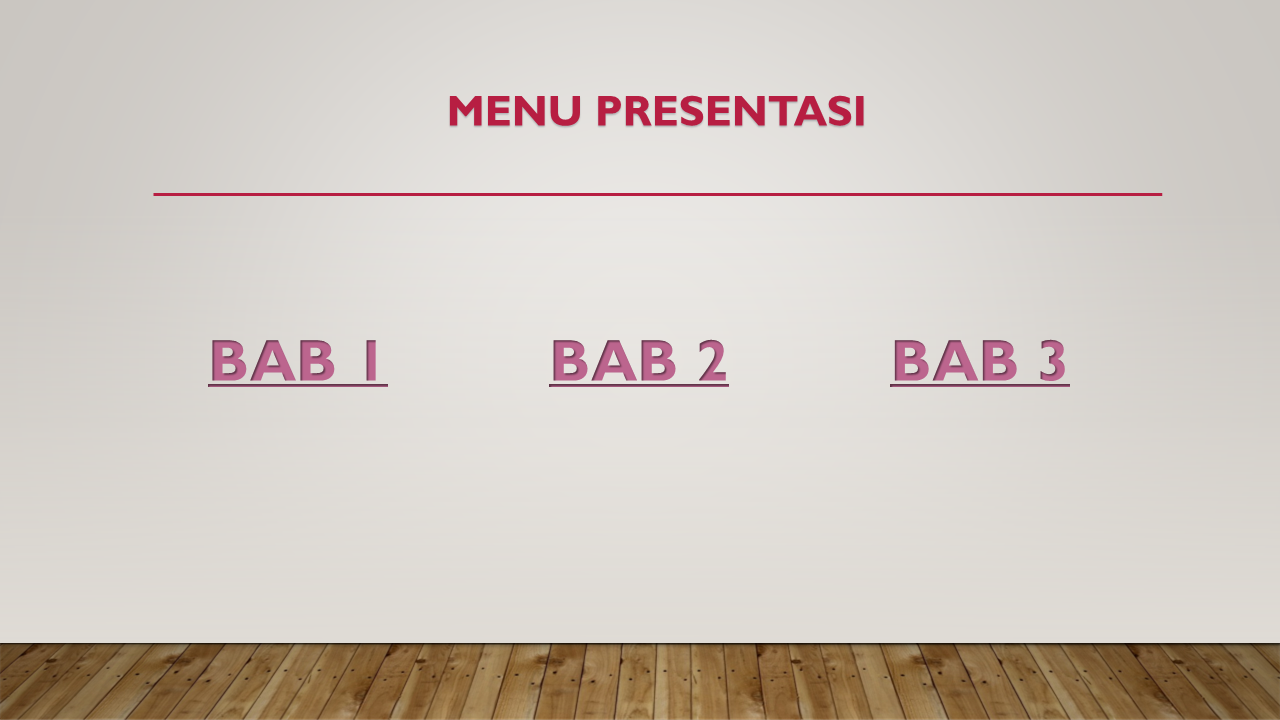
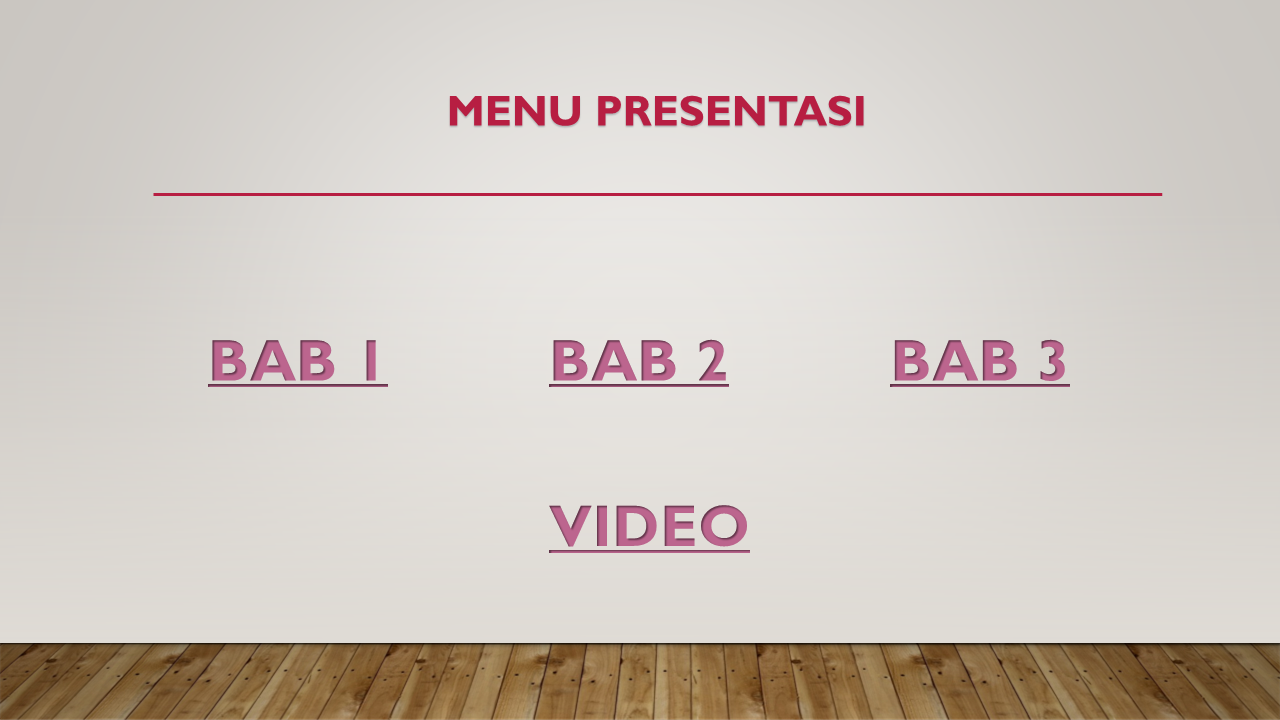
M

Changed region(s): [[0.4062, 0.7028, 0.5938, 0.7944]]

diff --git a/materi-powerpoint.html b/materi-powerpoint.html
@@ -1489,48 +1489,67 @@
                           </li>
                           <li>
                             <strong>Slide 1 — Menu Utama:</strong>
-                            <ul class="dash-list">
-                              <li>Judul: "Menu Presentasi".</li>
-                              <li>Buat 3 teks: "Bab 1", "Bab 2", "Bab 3".</li>
-                              <li>
-                                Blok teks "Bab 1" → Klik kanan →
-                                <strong>Hyperlink</strong> (atau Ctrl+K).
-                              </li>
-                              <li>
-                                Pilih
-                                <strong>Place in This Document</strong> →
-                                pilih <strong>Slide 2 (Bab 1)</strong> → OK.
-                              </li>
-                              <li>
-                                Ulangi untuk "Bab 2" → Slide 3, "Bab 3" →
-                                Slide 4.
-                              </li>
-                            </ul>
+                            <div class="row">
+                              <div class="col-md-6">
+                                <ul class="dash-list">
+                                  <li>Judul: "Menu Presentasi".</li>
+                                  <li>Buat 3 teks: "Bab 1", "Bab 2", "Bab 3".</li>
+                                  <li>
+                                    Blok teks "Bab 1" → Klik kanan →
+                                    <strong>Hyperlink</strong> (atau Ctrl+K).
+                                  </li>
+                                  <li>
+                                    Pilih
+                                    <strong>Place in This Document</strong> →
+                                    pilih <strong>Slide 2 (Bab 1)</strong> → OK.
+                                  </li>
+                                  <li>
+                                    Ulangi untuk "Bab 2" → Slide 3, "Bab 3" →
+                                    Slide 4.
+                                  </li>
+                                </ul>
+                              </div>
+                              <div class="col-md-6">
+                                <div class="my-3">
+                                  <img src="assets/img/presentasi-interaktif/Slide1.PNG" alt=""
+                                    class="img-fluid shadow rounded">
+                                </div>
+                              </div>
+                            </div>
                           </li>
                           <li>
-                            <strong>Tambahkan Action Button "Kembali" di setiap
-                              slide:</strong>
-                            <ul class="dash-list">
-                              <li>Buka Slide 2 (Bab 1).</li>
-                              <li>
-                                Tab <strong>Insert</strong> →
-                                <strong>Shapes</strong> →
-                                <strong>Action Buttons</strong> → pilih
-                                <strong>Action Button: Home</strong> (ikon
-                                rumah).
-                              </li>
-                              <li>Gambar di pojok kanan bawah.</li>
-                              <li>
-                                Di dialog yang muncul: pilih
-                                <strong>Hyperlink to</strong> →
-                                <strong>First Slide</strong> atau
-                                <strong>Slide…</strong> → pilih Slide 1.
-                              </li>
-                              <li>Klik OK.</li>
-                              <li>
-                                Copy-paste action button ke Slide 3, 4, dan 5.
-                              </li>
-                            </ul>
+                            <strong>Tambahkan Action Button "Kembali" di setiap slide:</strong>
+                            <div class="row">
+                              <div class="col-md-6">
+                                <ul class="dash-list">
+                                  <li>Buka Slide 2 (Bab 1).</li>
+                                  <li>
+                                    Tab <strong>Insert</strong> →
+                                    <strong>Shapes</strong> →
+                                    <strong>Action Buttons</strong> → pilih
+                                    <strong>Action Button: Home</strong> (ikon
+                                    rumah).
+                                  </li>
+                                  <li>Gambar di pojok kanan bawah.</li>
+                                  <li>
+                                    Di dialog yang muncul: pilih
+                                    <strong>Hyperlink to</strong> →
+                                    <strong>First Slide</strong> atau
+                                    <strong>Slide…</strong> → pilih Slide 1.
+                                  </li>
+                                  <li>Klik OK.</li>
+                                  <li>
+                                    Copy-paste action button ke Slide 3, 4, dan 5.
+                                  </li>
+                                </ul>
+                              </div>
+                              <div class="col-md-6">
+                                <div class="my-3">
+                                  <img src="assets/img/presentasi-interaktif/Slide2.PNG" alt=""
+                                    class="img-fluid shadow rounded">
+                                </div>
+                              </div>
+                            </div>
                           </li>
                           <li>
                             <strong>Tambahkan video dari YouTube:</strong>
